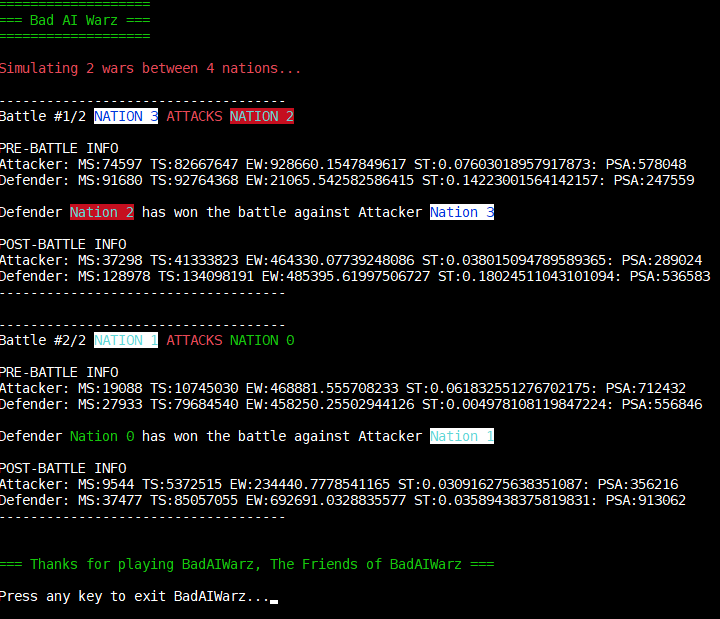
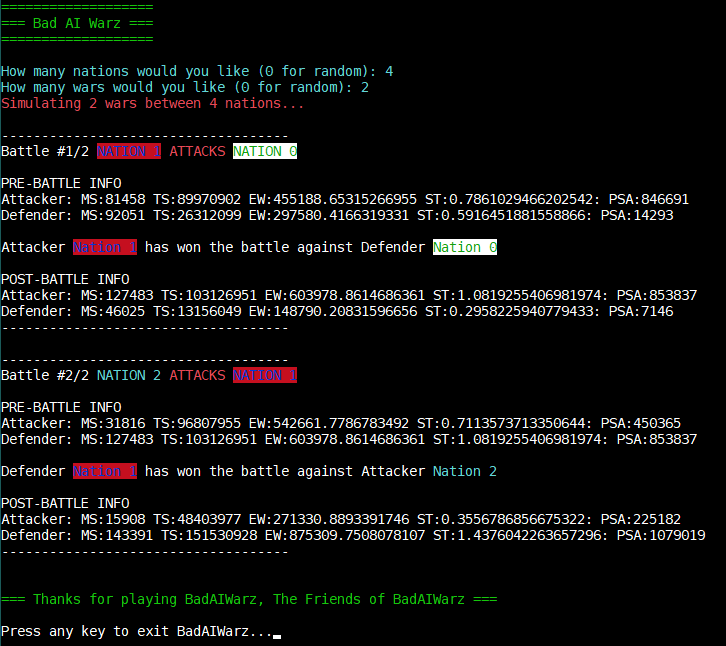
v0.0.6
Version 0.0.6 (15-Mar-2023): Added prompts to get number of nations and number of wars (battles).

Changed region(s): [[0.0, 0.0, 1.0, 0.8595], [0.0, 0.8901, 0.6417, 1.0]]

diff --git a/BadAIWarz/Program.cs b/BadAIWarz/Program.cs
@@ -1,4 +1,5 @@
 using System;
+using System.Numerics;
 
 class Program
 {
@@ -7,17 +8,14 @@ class Program
         int numNations, numWars, currentWar = 0;
         Random random = new Random();
 
-        numNations = random.Next(2, 500);
-        //numNations = 4; // For testing
-
-        WorldMap worldMap = new WorldMap(numNations);
-
-        numWars = numNations / 2;
-
         System.Console.ForegroundColor = ConsoleColor.Green;
         System.Console.WriteLine("===================");
         System.Console.WriteLine("=== Bad AI Warz ===");
         System.Console.WriteLine("===================\n");
+
+        numNations = GetNumberOfNations(random);
+        numWars = GetNumberOfWars(random, numNations);
+        WorldMap worldMap = new WorldMap(numNations);
 
         System.Console.ForegroundColor = ConsoleColor.Red;
         System.Console.WriteLine("Simulating " + numWars + " wars between " + 
@@ -45,5 +43,31 @@ class Program
         System.Console.ResetColor();
         System.Console.Write("Press any key to exit BadAIWarz...");
         System.Console.ReadKey();
+    }
+
+    private static int GetNumberOfNations(Random r)
+    {
+        int numNationsEntry = 0;
+
+        System.Console.ForegroundColor = ConsoleColor.Cyan;
+        Console.Write("How many nations would you like (0 for random): ");
+        numNationsEntry = int.Parse(Console.ReadLine());
+
+        if (numNationsEntry <= 0) { numNationsEntry = r.Next(1, 500); }
+
+        return numNationsEntry;
+
+    }
+    private static int GetNumberOfWars(Random r, int n)
+    {
+        int numWarsEntry = 0;
+
+        System.Console.ForegroundColor = ConsoleColor.Cyan;
+        Console.Write("How many wars would you like (0 for random): ");
+        numWarsEntry = int.Parse(Console.ReadLine());
+
+        if(numWarsEntry <= 0) { numWarsEntry = r.Next(1, n); }
+
+        return numWarsEntry;
     }
 }

diff --git a/README.md b/README.md
@@ -10,7 +10,11 @@ This app and its code is licensed under GNU GPL 3 and later. It is meant as a te
 
 You may use this app only for personal use. If you distribute, charge for it, or alter it, contact Vince Arter, Jr. (vince@vincearter.com).
 
+## Installation
+To install Bad AI Warz, just run the installer self extracting archive to a folder and run BadAIWarz.exe.
+
 ## Version History
+* Version 0.0.6 (15-Mar-2023): Added prompts to get number of nations and number of wars (battles).
 * Version 0.0.5 (15-Mar-2023): Added battle numbers to output for each battle. Tweaked formats to be more readable.
 * Version 0.0.4.2 (15-Mar-2023): Tweaked the background color generation a bit because it was black almost all the time.
 * Version 0.0.4.1 (15-Mar-2023): Fixed issue with missing Territory Size in output of battles (even though it was being used for battle calculations).
